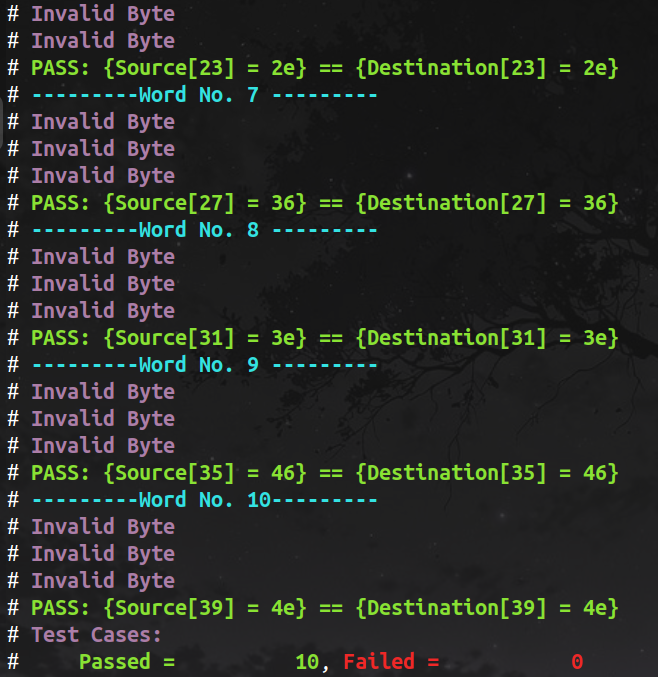
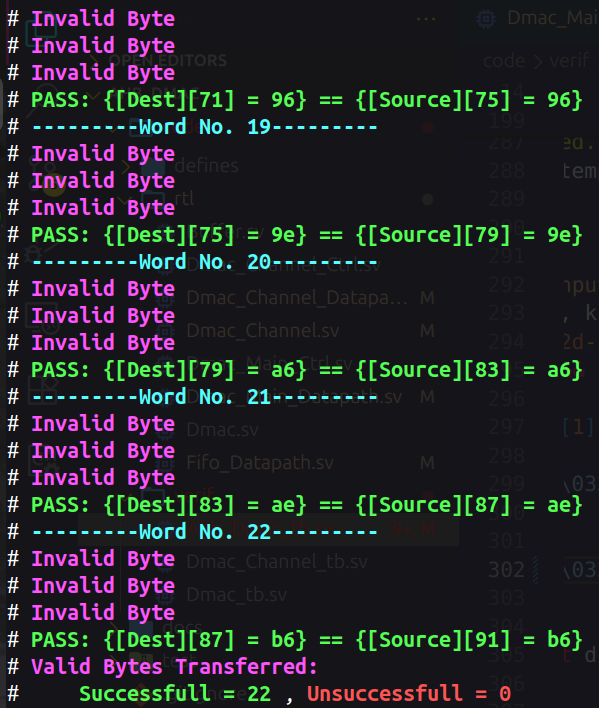
Changing image format and reducing text in readme

Changed region(s): [[0.0, 0.0, 0.9917, 0.9926], [0.9316, 0.2171, 1.0, 0.2482], [0.7813, 0.0, 0.8414, 0.031]]

diff --git a/README.md b/README.md
@@ -4,7 +4,7 @@
 
 # ***AHB Direct Access Memory Controller (DMAC)***
 
-## Designed By:
+## Designed and Verified By:
 - [Muhammad Mouzzam](https://github.com/MuhammadMouzzam)
 - [Danish Hassan](https://github.com/Danish-Hassann)
 
@@ -32,7 +32,6 @@
 - [DMAC](#dmac)
   - [Block Diagram/Pinout](#block-diagrampinout)
   - [Signals](#signals)
-
     - [Request and Response Interface](#request-and-response-interface)
     - [Control and Interrupt Interface](#control-and-interrupt-interface)
     - [Master Interface](#master-interface)
@@ -60,6 +59,7 @@
     - [Internal Signals](#internal-signals-1)
     - [State Transition Graph](#state-transition-graph-1)
     - [States](#states-1)
+  - [Resources](#resources)
 
 ## **Introduction**
 A Direct Memory Access Controller (DMAC) is a hardware module designed to facilitate efficient data transfers between memory and peripherals, or between two peripheral devices, without heavily involving the processor (CPU). This mechanism allows data movement to occur in the background, freeing the CPU to execute other instructions or handle high-priority tasks.
@@ -414,7 +414,9 @@ The DMA channel operates through a **finite state machine (FSM)** that governs t
 | `Hold Write` | "State indicating that the bus grant was given to the processor during a write operation, and the state remains active until the DMA channel is re-enabled. |
 
 ## ***Verification and Testing***
-To verify the DMAC, a Mock AHB Peripheral with a 1024-byte register file (`8x1024`) was designed. Two instances, source and dest, acted as data source and destination. `transfer_size` was 18 with random data in source, and `burst_size` was 4. The first 16 words transferred in 4 bursts of 4, the remaining 2 in single mode. All three request types were tested, with `DmacReq[1]` given priority when asserted. All edge cases passed successfully.  
+To verify the DMAC, a Mock AHB Peripheral with a 1024-byte register file (`8x1024`) was designed. Two instances, source and dest, acted as data source and destination. `transfer_size` was 22 with random data in source, and `burst_size` was 4. All the tests were performed on an AHB Bus. The first 16 words transferred in 5 bursts of 4, the remaining 2 in single mode. All three request types were tested, with `DmacReq[1]` given priority when asserted. All edge cases passed successfully.
+
+- You can access the RTL for AHB Bus through this [link](https://github.com/meds-uet/AHB-Bus) or from the [Resources](#resources) Tab.
 
 ## **Waveforms**
 
@@ -443,11 +445,7 @@ In this image, the `DmacReq` signal was `01`, so `Channel 2` was enabled and Int
 <div align='center'>
 <img src='docs/tb_01req.png'>
 </div>
-
-All test cases were passed as only those bytes were tested which were valid depending upon the `MWSTRB` signal. If a byte was Invalid, **Invalid Byte** was displayed.
-<div align='center'>
-<img width=300px height=334px src='docs/tc_01req.png'>
-</div>
+We can see for reading, address of 1st peripheral (i.e. `0x0000xxxx`) is sent on the bus while for writing, address of 2nd peripheral is sent.
 
 ---
 
@@ -456,10 +454,7 @@ Here, `HSize` was kept as `halfword` and the address offset was kept at `2`.
 <div align='center'>
 <img src='docs/tb_10req.png'>
 </div>
-All test cases were passed depending upon the `MWSTRB` signal.
-<div align='center'>
-<img width=300px height=334px src='docs/tc_10req.png'>
-</div>
+We can see for reading, address of 2nd peripheral (i.e. `0x1000xxxx`) is sent on the bus while for writing, address of 1st peripheral is sent.
 
 ---
 
@@ -468,15 +463,30 @@ In this case, `HSize` was kept as `word` and the address offset was kept at `0`.
 <div align='center'>
 <img src='docs/tb_11req.png'>
 </div>
-All test cases were passed while expected valid of `MWSTRB` was `1111`.
-<div align='center'>
-<img width=300px height=334px src='docs/tc_11req.png'>
+We can see for reading, address of 2nd peripheral (i.e. `0x1000xxxx`) is sent on the bus while for writing, address of 1st peripheral is sent.
+
+### Summary of all 3 cases
+All bytes were successfully transferred as only those bytes were tested which were valid depending upon the `MWSTRB` signal. If a byte was Invalid, **Invalid Byte** was displayed.
+<div style="display: flex; justify-content: center; align-items: center; gap: 20px;">
+  <figure style="text-align: center;">
+    <img width="225px" height="250px" src="docs/tc_01req.png" alt="DmacReq = 01">
+    <figcaption><b>Figure 1:</b> DmacReq = 01</figcaption>
+  </figure>
+  <figure style="text-align: center;">
+    <img width="225px" height="250px" src="docs/tc_10req.png" alt="DmacReq = 10">
+    <figcaption><b>Figure 2:</b> DmacReq = 10</figcaption>
+  </figure>
+  <figure style="text-align: center;">
+    <img width="225px" height="250px" src="docs/tc_11req.png" alt="DmacReq = 11">
+    <figcaption><b>Figure 3:</b> DmacReq = 11</figcaption>
+  </figure>
 </div>
 
 ---
 
 ### Bus Grant Deasserted mid transfer
 In this case, `HSize` is still `word` encoded and offset is `0` but bus grant was deasserted mid transfer for 2 clock edges.
+Note: This test was not performed on AHB bus, in order for us to easily manipulate bus grant.
 <div align='center'>
 <img src='docs/bg_da.png'>
 </div>
@@ -487,6 +497,7 @@ Even though DMAC was removed as bus master, Transfer resumed after DMAC was agai
 
 ---
 
-# ***References***
+# ***Resources***
 - [AHB Bus - Documentation](https://developer.arm.com/documentation/ihi0033/latest/)
+- [RTL - AHB Bus](https://github.com/meds-uet/AHB-Bus)
 - [ARM PL081 Single Master DMAC - Documentation](https://developer.arm.com/documentation/ddi0218/e)
